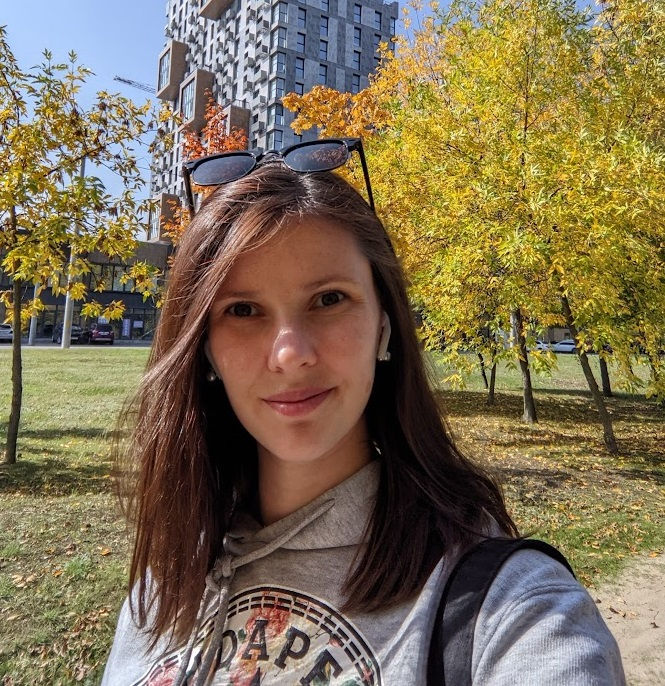
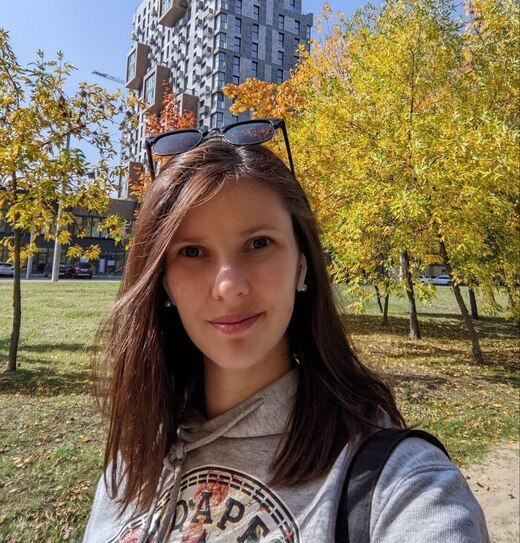
changed imgs size

diff --git a/index.html b/index.html
@@ -32,7 +32,7 @@
 						  <a href="https://www.linkedin.com/in%D0%B0%D0%BD%D0%B0%D1%81%D1%82%D0%B0%D1%81%D0%B8%D1%8F-%D0%BB%D0%B5%D0%B1%D1%91%D0%B4%D0%BA%D0%B8%D0%BD%D0%B0-11212411/" target="_blank" aria-label="visit my linkedin"><i class="fa fa-linkedin"></i></a>
 						  <a href="https://www.facebook.com/Lebjodkina.A" target="_blank" aria-label="visit my facebook page"><i class="fa fa-facebook"></i></a>
 						  <a href="https://www.instagram.com/mother.of.blanket/" target="_blank" aria-label="visit my instagram page"><i class="fa fa-instagram"></i></a>
-						  <a href="https://github.com/analebyodkina" target="_blank"><i class="fa fa-github" aria-label="visit my github"></i></a>
+						  <a href="https://github.com/analebyodkina" target="_blank" aria-label="visit my github"><i class="fa fa-github"></i></a>
 						</nav>
 					  </div>
 				</div>	

diff --git a/scss/blocks/_about-section.scss b/scss/blocks/_about-section.scss
@@ -50,7 +50,7 @@
     gap: 20rem;    
     &__title {        
         align-self: flex-start;
-        margin-bottom: 15rem;
+        margin-bottom: 15rem;        
     }
     &__item {
         padding: 25rem;
@@ -59,7 +59,8 @@
         border-radius: 5rem;
     }
     &__header {
-        @include text($ff, 18rem, 24rem, 700, $color-primary);
+        @include text($ff, 18rem, 24rem, 700, #26B5A1);
+        
         
     }
     &__years {        

diff --git a/css/style.css b/css/style.css
@@ -977,7 +977,7 @@ html._light .desc {
     font-size: 18rem;
     line-height: 24rem;
     font-weight: 700;
-    color: #1f9783; }
+    color: #26B5A1; }
   .edu__years {
     margin-bottom: 10rem; }
 
